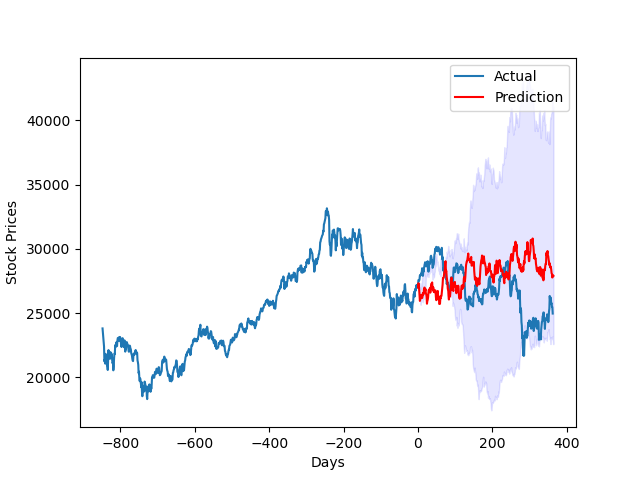
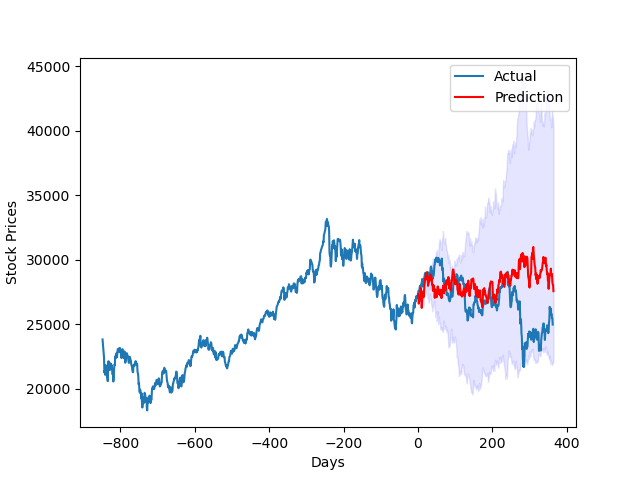
* Modify some bugs

diff --git a/main.py b/main.py
@@ -1,12 +1,3 @@
-# Ignore warnings
-def warn(*args, **kwargs):
-    pass
-
-
-import warnings
-
-warnings.warn = warn
-
 from tester import RunsTester, StationarityTester
 from models import LassoForecaster, ArimaForecaster, GBMForecaster
 import pandas as pd
@@ -15,6 +6,10 @@ import numpy as np
 import datetime
 
 import yfinance as yf
+
+import warnings
+
+warnings.filterwarnings("ignore")
 
 # Data paths
 DATA_PATHS = {
@@ -28,14 +23,16 @@ PARAMS = {
     "END_DATE": "2020-07-17",
     'PRED_END_DATE': "2021-07-21",
     "PRED_DUR": 365,
-    "SERIES_NAME": "^GSPC",  # ^GSPC: S&P500 Index; ^HSI: HSI Index
-    "IS_REALTIME": True,
+    "SERIES_NAME": "^HSI",  # ^GSPC: S&P500 Index; ^HSI: HSI Index
+    "IS_REALTIME": False,
     "MODEL_NAME": "GBM",  # Lasso; Ridge; GBM; ARIMA
     "SCENE_SIZE": 1000,
-    "ALPHA": 0.05,
+    "ALPHA": 0.05,  # Level of significance
     "PLOT_CI": True,
+    # Lasso-based ARIMA specific settings
+    # Orders from traditional ARIMA model
     "d": 0,  # Initial rate of differencing parameter
-    "LAG": 1,  # Lag of the ARIMA model (p) # TODO: Solve zero order problem
+    "LAG": 1,  # Lag of the ARIMA model (p)
     "MA_ORDER": 0  # Order of the MA series (q)
 }
 # --------------------------------------------------
@@ -63,6 +60,7 @@ else:
     except ValueError:
         ValueError("Invalid data name. Unable to load series.")
 
+
 raw_data = raw_data.reset_index().drop(['Date'], axis=1)
 series = raw_data['Close']
 
@@ -84,8 +82,7 @@ PARAMS['d'] = d
 # --------------------------------------------------
 #                    Simulation
 # --------------------------------------------------
-# TODO: Chose the optimal part from validation
-# TODO: Refactor the codes a bit
+# TODO: Choose the optimal part from validation
 # Initialize forecaster
 if PARAMS['MODEL_NAME'] == "Lasso" or PARAMS['MODEL_NAME'] == "Ridge":
     forecaster = LassoForecaster(PARAMS)

diff --git a/models.py b/models.py
@@ -1,7 +1,6 @@
 import pandas as pd
 import numpy as np
 import matplotlib.pyplot as plt
-import matplotlib.lines as lines
 from abc import ABC, abstractmethod
 
 # Lasso
@@ -178,6 +177,7 @@ class GBMForecaster(Forecaster):
         :param dur: number of days of prediction
         :return: Path of prediction
         """
+        # TODO: Just randomly selectg a path
         # Take the prediction path with least MSE to mean prediction
         preds = self.simulate(dur)
         mses = [np.average((preds[i] - preds.mean(axis=0)) ** 2) for i in range(preds.shape[0])]
@@ -196,8 +196,8 @@ class GBMForecaster(Forecaster):
 
         # Copy the testing data to self
         self.testing = test['Close']
-        # TODO: This is the least variance, not the best
         preds = self.simulate(dur)
+        # Compute SCENE_SIZE number of MSEs and choose the least one
         mses = [np.average((preds[i] - self.testing) ** 2) for i in range(preds.shape[0])]
         mapes = [np.average(abs(preds[i] - test['Close']) / preds[i])
                  for i in range(preds.shape[0])]
@@ -302,6 +302,9 @@ class LassoForecaster(Forecaster):
         Produce time series data for fitting the time series Lasso regression
         :return: predictors to be fitted for Lasso in numpy
         """
+        # If Q is 0
+        if self.lag == 0:
+            return raw_predictors.values
         p = raw_predictors.shape[1]
         predictors = None
 
